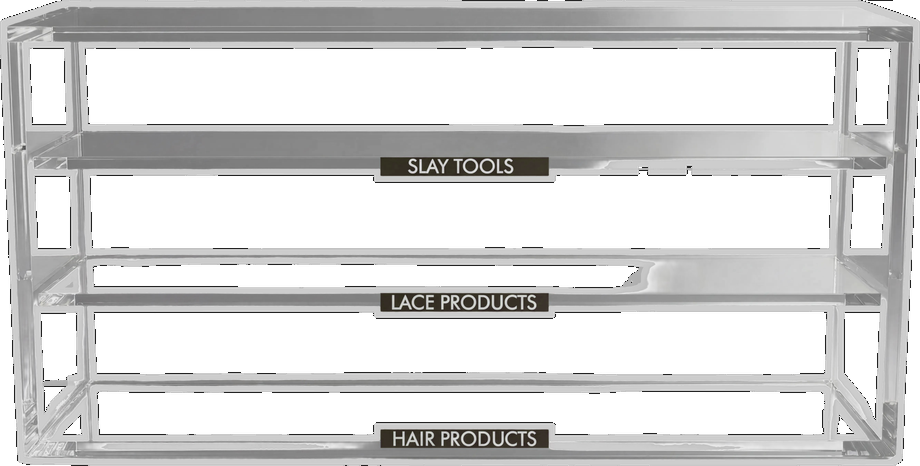
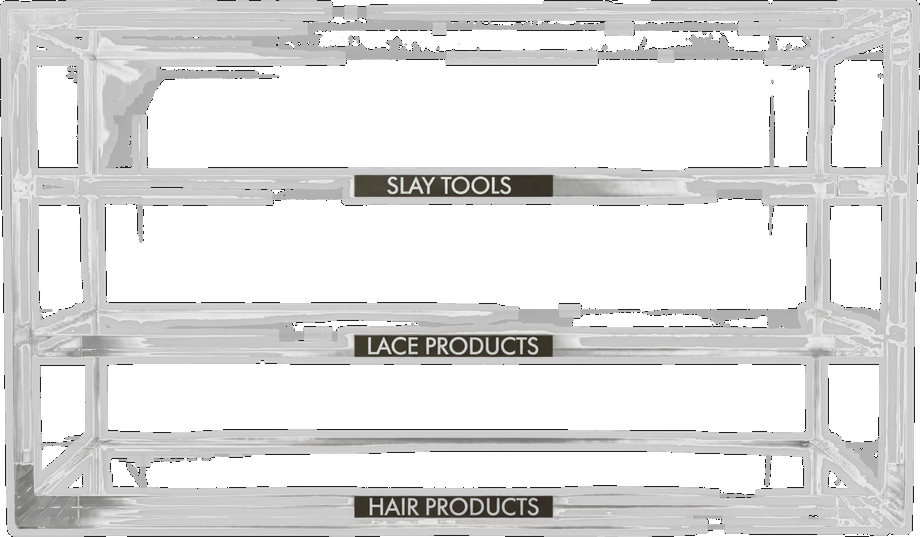
Lobby display case: rebake from 37jR_8sO white studio source

diff --git a/src/constants/lobbyCaseAssets.ts b/src/constants/lobbyCaseAssets.ts
@@ -4,10 +4,10 @@
  */
 
 /** Display-case acrylic (`CASE.png`) — `npm run lobby:bake-case`. */
-export const LOBBY_CASE_ASSET_VERSION = '7mfZBdMQ-v1';
+export const LOBBY_CASE_ASSET_VERSION = '37jR_8sO-v1';
 
 export const LOBBY_CASE_SRC_REMOTE =
-  'https://hyycomvcaqxxvyrfupes.supabase.co/storage/v1/object/public/live-preview/LP%20Images/7mfZBdMQEOXkht8MamYaG_DIB2ZDCl.jpeg';
+  'https://hyycomvcaqxxvyrfupes.supabase.co/storage/v1/object/public/live-preview/LP%20Images/37jR_8sOmtkmHDonwcu9i_RolTShHD.jpeg';
 
 export const LOBBY_CASE_SRC = `/assets/CASE.png?v=${LOBBY_CASE_ASSET_VERSION}`;
 
